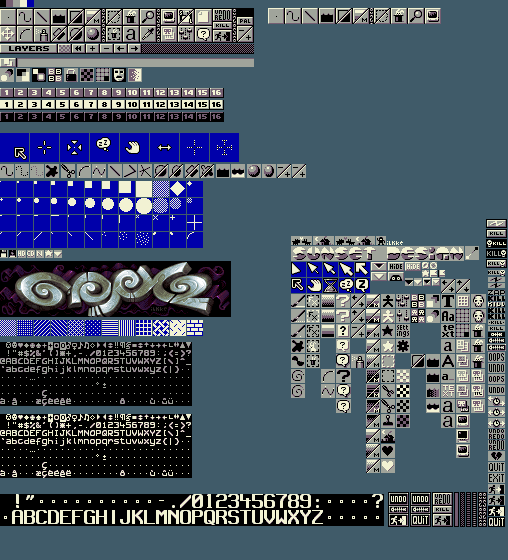
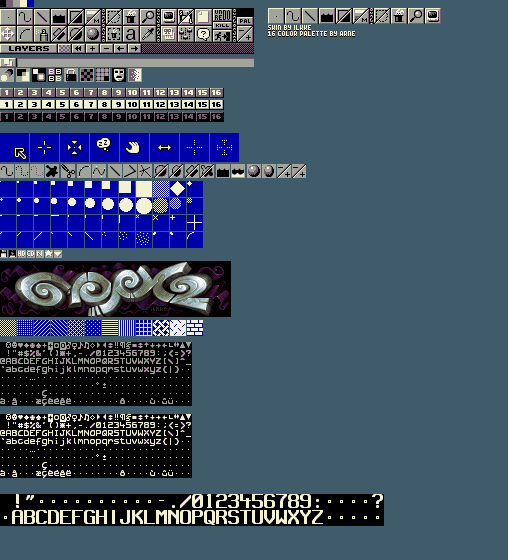
Updated credits in help. Updated Scenish skin (Now with Arne's palette as default)

Changed region(s): [[0.561, 0.3643, 1.0, 0.9411], [0.5315, 0.0304, 0.6201, 0.0911], [0.6496, 0.0304, 0.6791, 0.0911]]

diff --git a/src/helpfile.h b/src/helpfile.h
@@ -356,11 +356,14 @@ static const T_Help_table helptable_credits[] =
   HELP_TEXT ("     Buttons and fonts (classic)")
   HELP_TEXT ("")
   HELP_TEXT ("  iLKke (ilkke.blogspot.com)")
-  HELP_TEXT ("     Buttons and logo (modern), extra fonts")
+  HELP_TEXT ("     Buttons and logo (modern, scenish)")
+  HELP_TEXT ("     Several fonts")
   HELP_TEXT ("")
   HELP_TEXT ("  Jamon")
   HELP_TEXT ("     Buttons, logo and font (DPaint tribute)")
   HELP_TEXT ("")
+  HELP_TEXT ("  Hatch")
+  HELP_TEXT ("     Vectorized icon")
   HELP_TEXT ("")
   HELP_TEXT ("               ...Pixelled all the graphics")
   HELP_TEXT ("")
